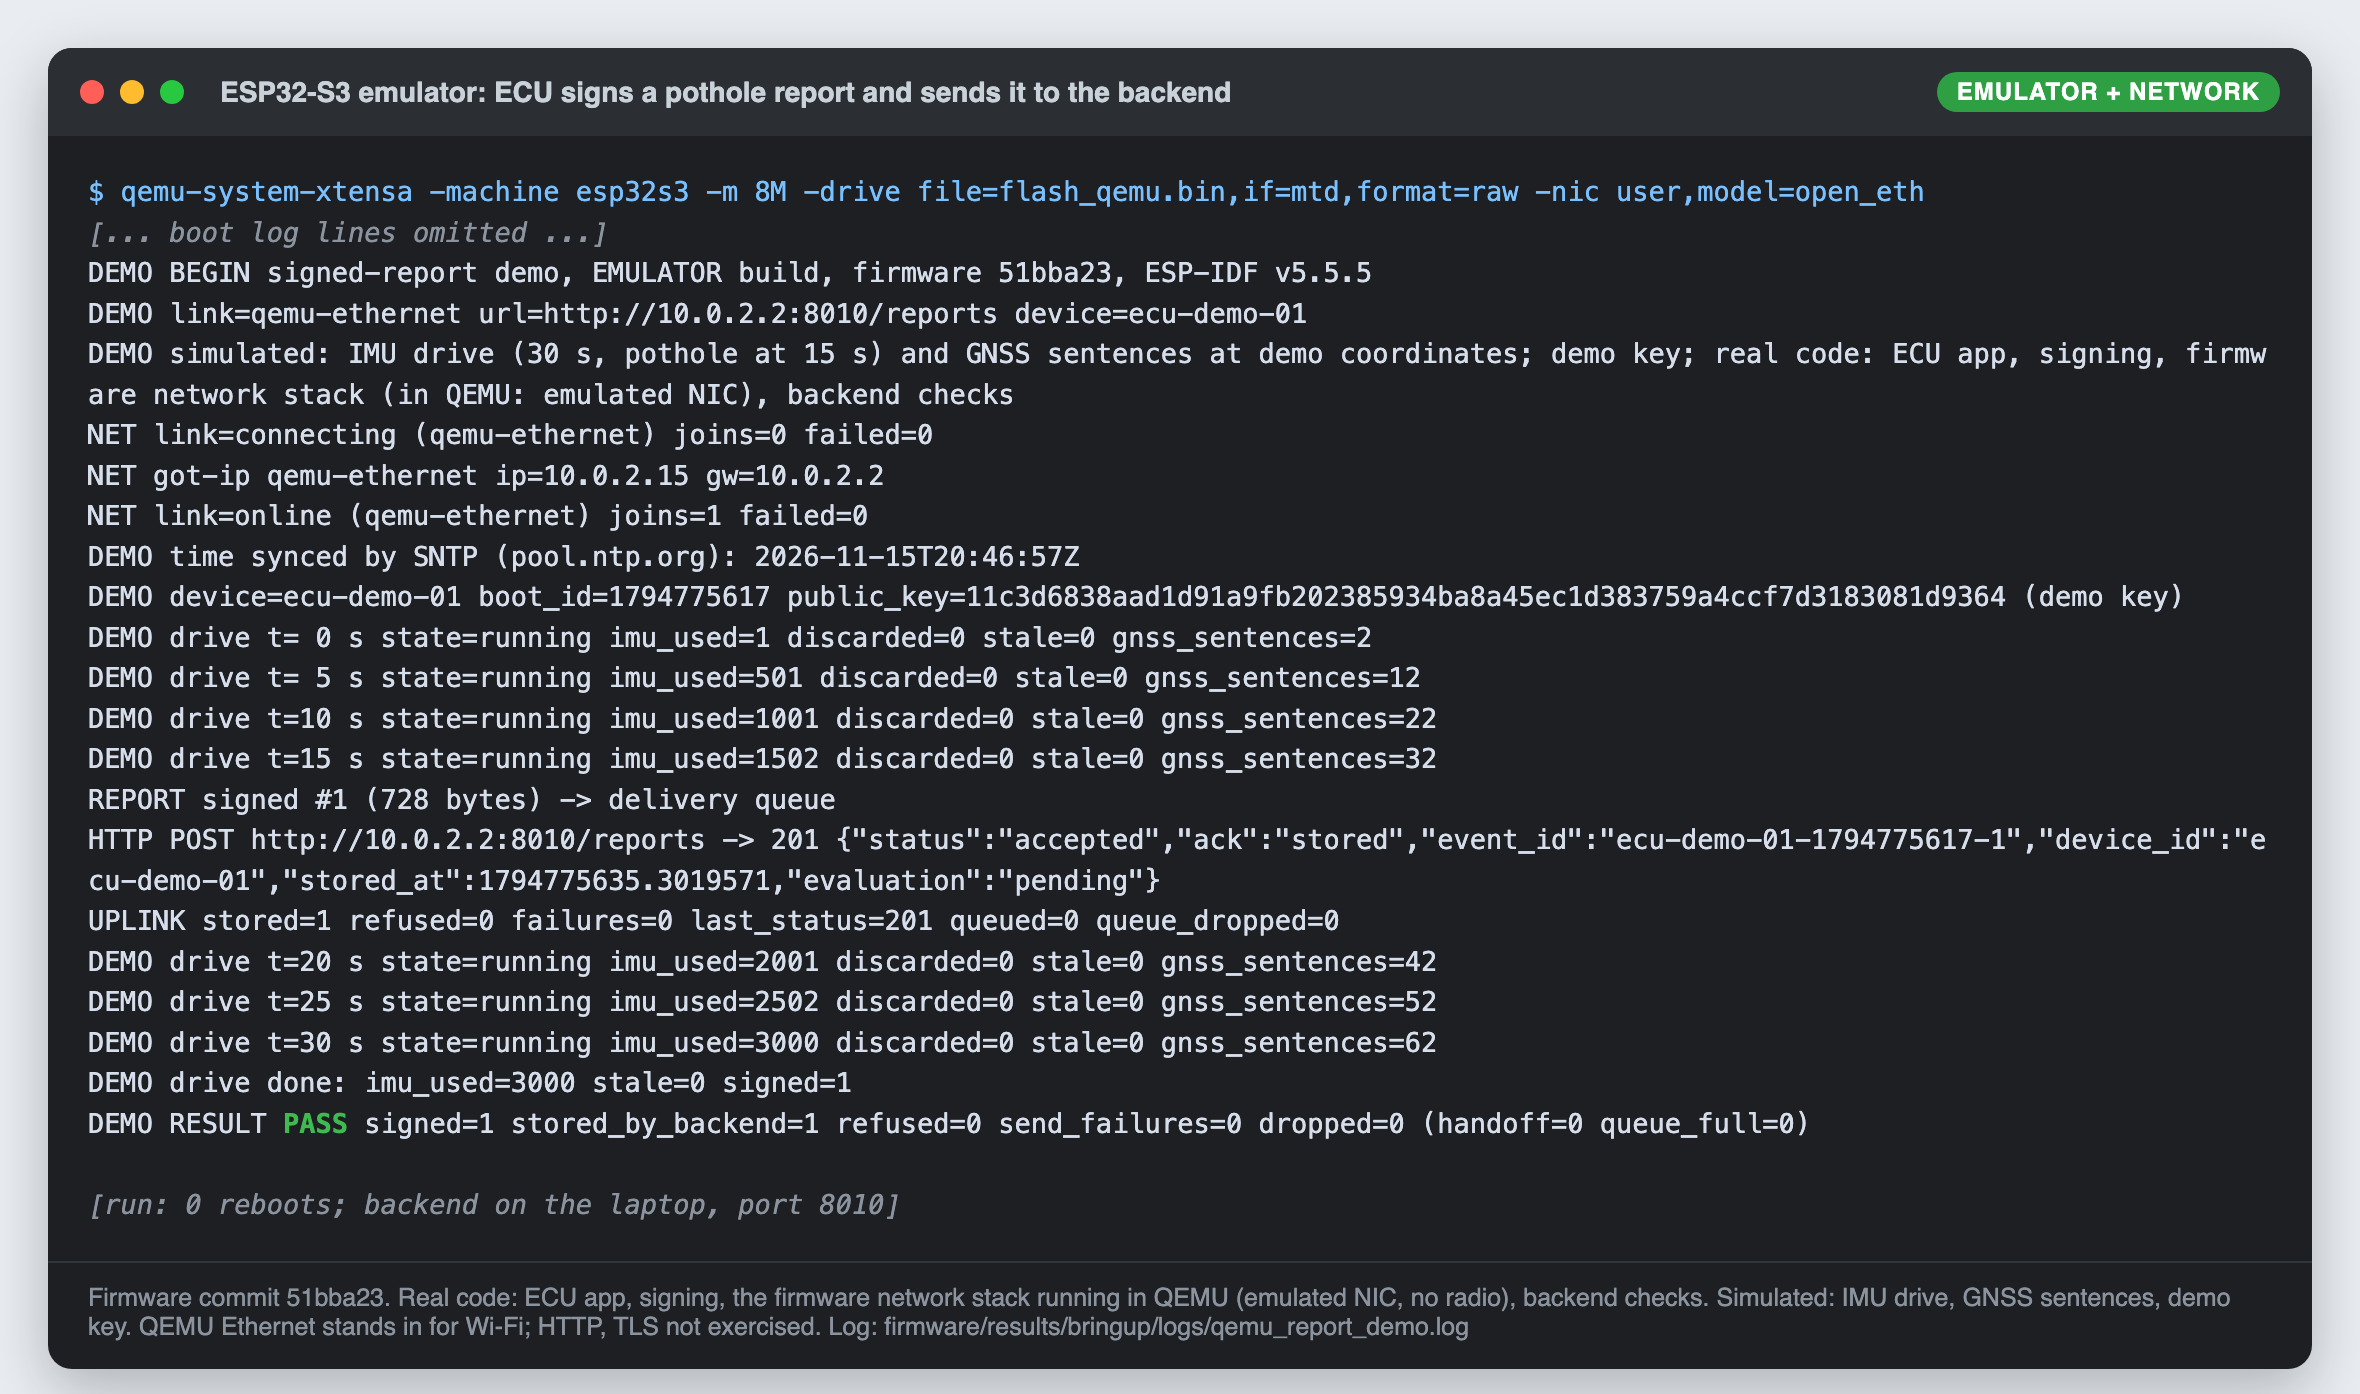
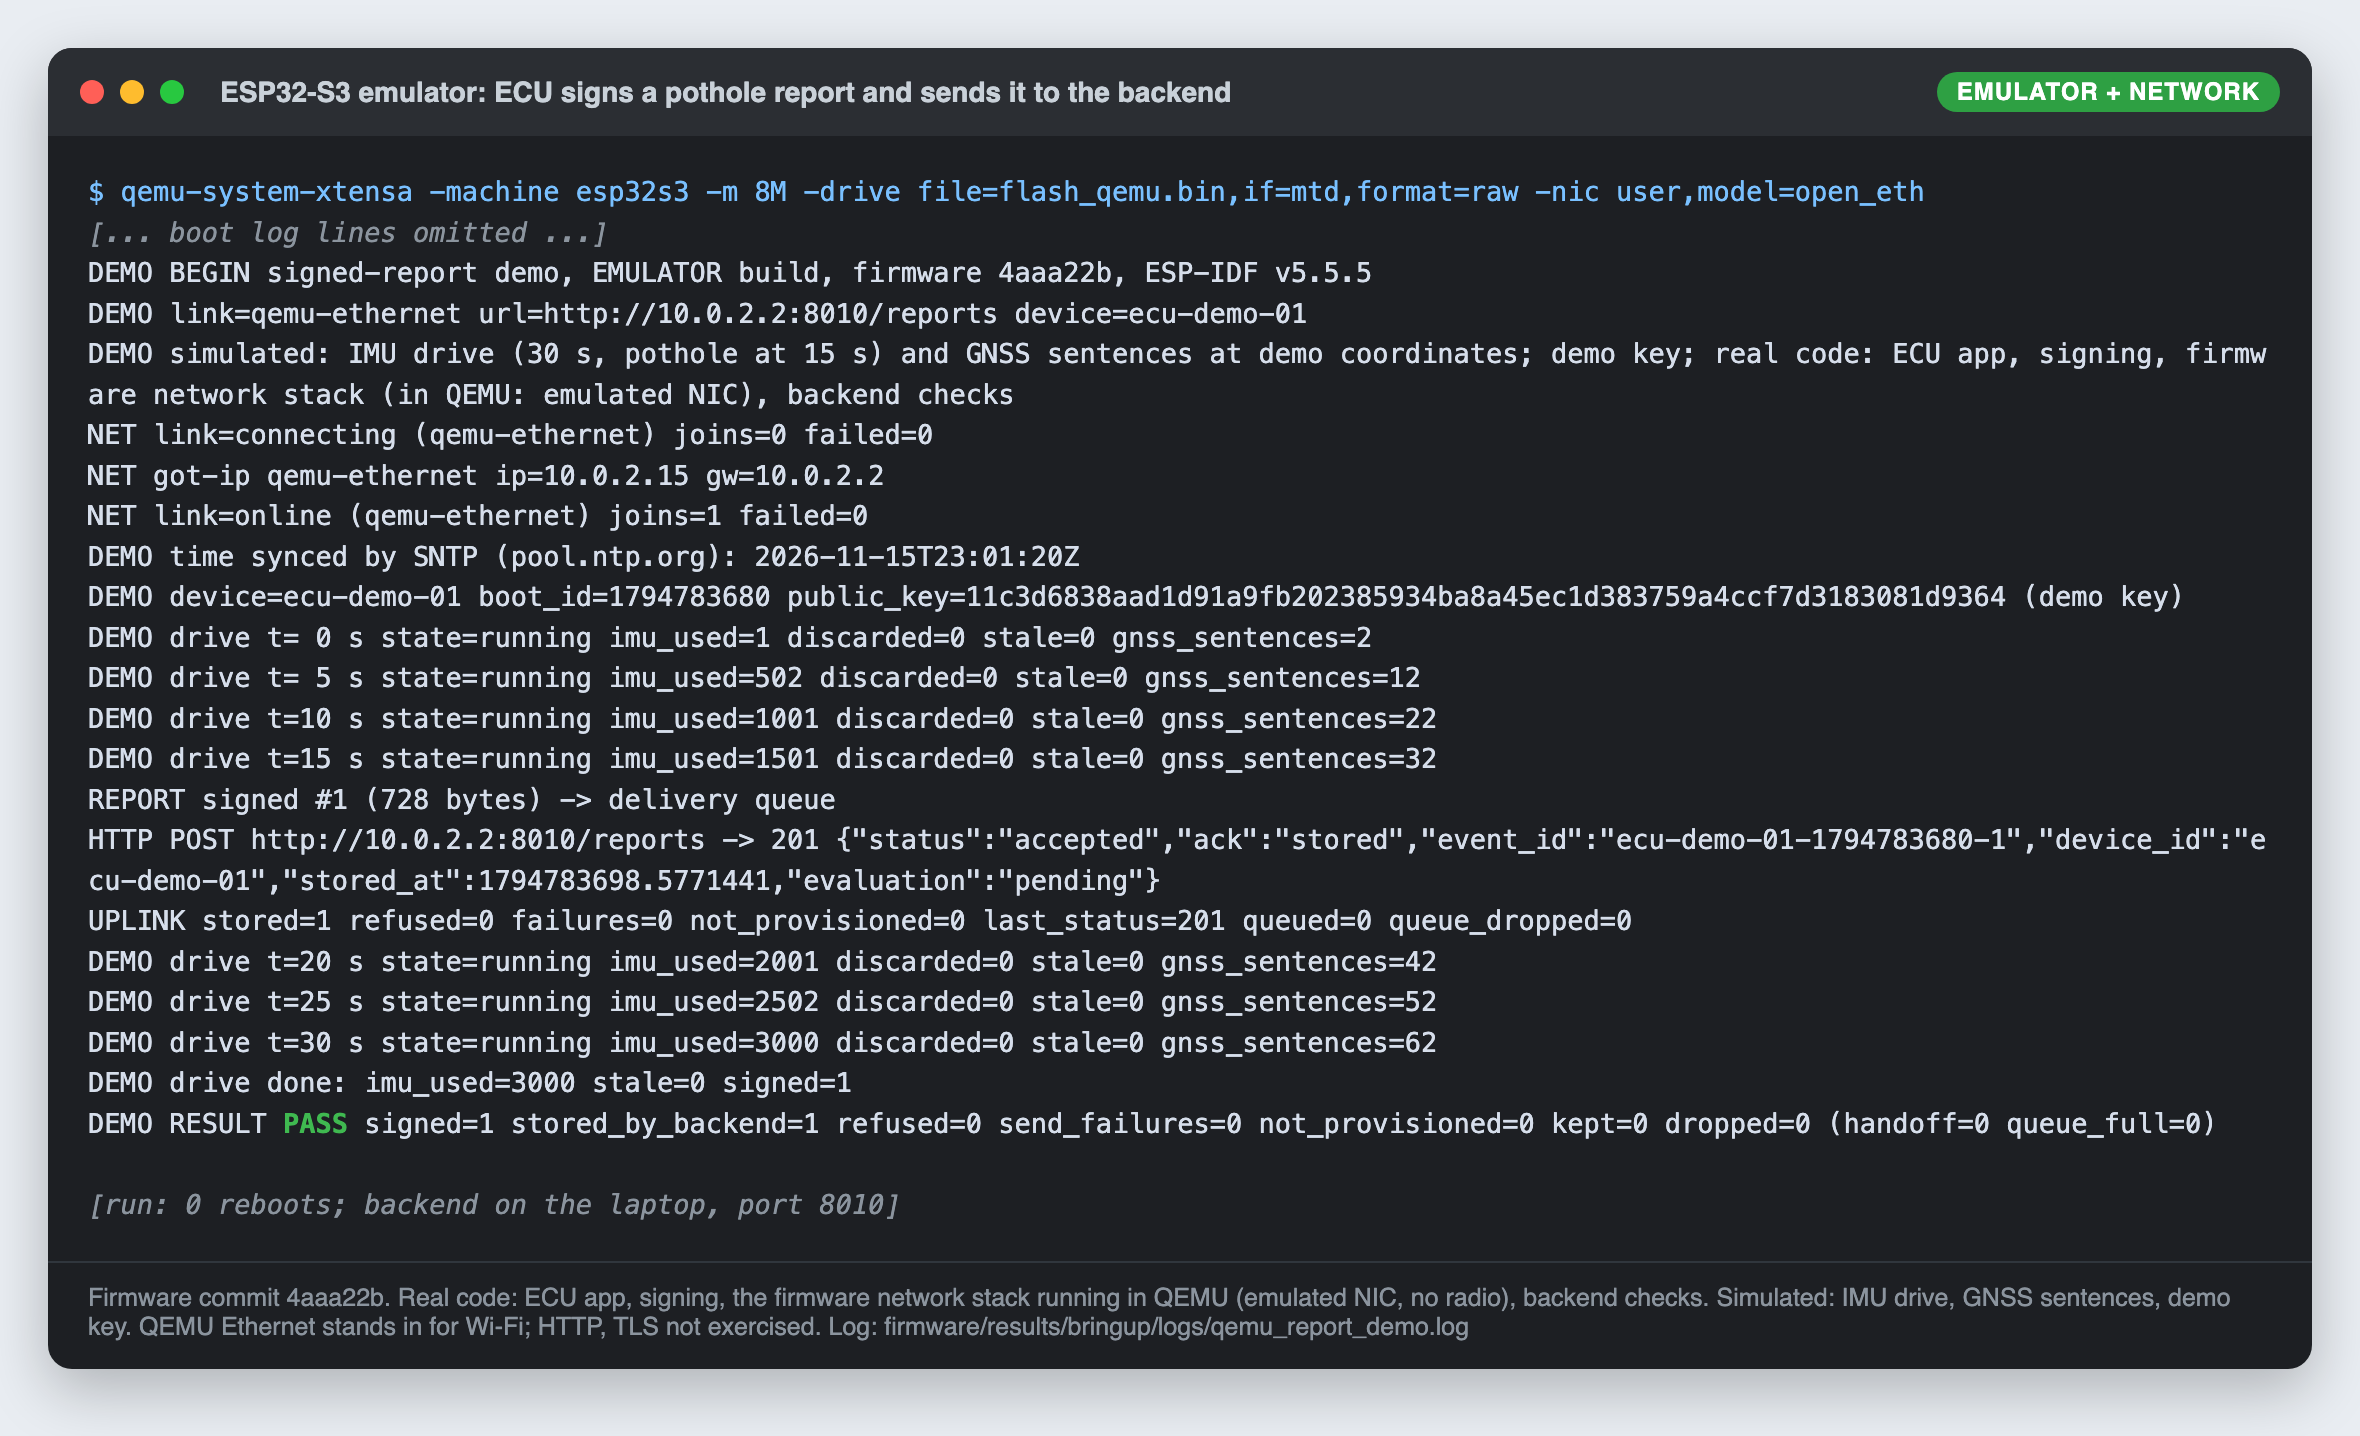
Screenshots for 4aaa22b: shots 1, 5, 6 regenerated; new shot 7 (403 unknown_device, report kept)

diff --git a/firmware/results/bringup/screenshots/make_shots.py b/firmware/results/bringup/screenshots/make_shots.py
@@ -13,7 +13,7 @@ OUT = Path(sys.argv[2])
 OUT.mkdir(parents=True, exist_ok=True)
 BRAVE = "/Applications/Brave Browser.app/Contents/MacOS/Brave Browser"
 COMMIT = "ad1ac37"       # smoke test run (shots 2, 3)
-COMMIT_NET = "51bba23"   # network report run and the latest host tests (shots 1, 5, 6)
+COMMIT_NET = "4aaa22b"   # network report runs and the latest host tests (shots 1, 5, 6, 7)
 ONLY = set(sys.argv[3:])
 
 
@@ -29,6 +29,7 @@ def colour(line):
     e = html.escape(line)
     e = re.sub(r"\b(PASS|PASSED|succeeded|Project build complete|201 Created|-&gt; 201)", r'<span class="ok">\1</span>', e)
     e = re.sub(r"\b(FAIL|FAILED|ERROR|Rebooting\.\.\.|401 Unauthorized|403 Forbidden|bad_signature)", r'<span class="bad">\1</span>', e)
+    e = re.sub(r"(\(device key not registered: report kept, will retry\)|kept=1)", r'<span class="skip">\1</span>', e)
     e = e.replace("***ERROR***", '<span class="bad">***ERROR***</span>')
     e = re.sub(r"\b(SKIP)\b", r'<span class="skip">\1</span>', e)
     if line.startswith("$ "):
@@ -76,7 +77,7 @@ if wanted(1):
   total = [l for l in nat if "test cases:" in l]
   render("1_laptop_tests", "Laptop: device logic unit tests", "HOST (laptop)", "HOST",
          ["$ pio test -e native"] + [f"[... per-test output omitted, {len(nat)} lines in the full log ...]"] + summary + total,
-         f"Commit {COMMIT_NET} - 15 Nov 2026 - full log: firmware/results/bringup/logs/native_tests.log")
+         f"Commit {COMMIT_NET} - 15 Nov 2026 (UTC) - full log: firmware/results/bringup/logs/native_tests.log")
 
 # 2. Emulator run of the ECU smoke test (EMULATOR)
 if wanted(2):
@@ -133,8 +134,21 @@ if wanted(6):
   be = [l.replace("INFO:     ", "") for l in read("backend_report_demo.log") if "/reports" in l or "/devices" in l]
   ck = read("backend_report_checks.log")
   lines = (["# backend log: run 1 (key not registered yet), registration, run 2 (uvicorn on the laptop, port 8010)"]
-           + be[:3] + ["", *ck])
+           + be[:be.index(next(l for l in be if "/devices" in l)) + 2] + ["", *ck])
   render("6_backend_checks", "Backend: the report is stored; a resend is a duplicate; a changed copy is refused",
          "HOST (laptop backend)", "HOST", lines,
          f"Commit {COMMIT_NET} - local SQLite test database, test device ecu-demo-01. "
          "Logs: firmware/results/bringup/logs/backend_report_demo.log, backend_report_checks.log")
+
+# 7. Emulator: device not registered yet -> 403 unknown_device, the report is KEPT and retried (EMULATOR + network)
+if wanted(7):
+  r = [l for l in read("qemu_report_demo_unregistered.log") if not l.startswith("#")]
+  keep = [l for l in r if l.startswith(("DEMO", "NET", "REPORT", "HTTP", "UPLINK")) and not l.startswith("DEMO drive t=")]
+  lines = (["# run 1 of 2: the backend does not know this device's public key yet",
+            "$ qemu-system-xtensa -machine esp32s3 -m 8M -drive file=flash_qemu.bin,if=mtd,format=raw -nic user,model=open_eth",
+            "[... boot log lines and drive progress lines omitted ...]"] + keep
+           + ["", "[the report stays queued: it is sent again after registration, or dropped later as 422 stale]"])
+  render("7_emulator_unknown_device_kept", "ESP32-S3 emulator: key not registered yet - 403, report kept and retried",
+         "EMULATOR + NETWORK", "NET", lines,
+         f"Firmware commit {COMMIT_NET}. Before the fix a 403 deleted the report; now 403 unknown_device keeps it "
+         "(other 403s, e.g. revoked device, still drop it). Log: firmware/results/bringup/logs/qemu_report_demo_unregistered.log")

diff --git a/firmware/results/bringup/BRINGUP_CHECKLIST.md b/firmware/results/bringup/BRINGUP_CHECKLIST.md
@@ -17,7 +17,7 @@ Every result below says where it ran: **HOST** (laptop, native tests), **EMULATO
 | `firmware/ecu` smoke test boots | EMULATOR | **chip PASS, signing PASS**, gps/imu/camera SKIP (not emulated), no reboots in a 60 s run | `logs/qemu_ecu_smoke.log` |
 | Flash, boot, GPS, IMU, camera on the board | BOARD | **NOT RUN**: board not delivered yet | - (fill in below) |
 | Report demo firmware builds for the board (Wi-Fi) and the emulator | cross-compile | **Built, 0 warnings**, 37% of app partition free (board) | `logs/ecu_report_build_board.log`, `logs/ecu_report_build_qemu.log` |
-| ECU app on the chip signs a pothole report and sends it to `POST /reports` | EMULATOR + laptop backend | **PASS**: network up, SNTP time, report signed, backend answered **201 accepted**, no reboots. QEMU Ethernet stands in for Wi-Fi; HTTP only (TLS not exercised); IMU drive and GNSS sentences simulated; demo key | `logs/qemu_report_demo.log`, `logs/backend_report_demo.log`, screenshot 5. The run before registering the key got **403 unknown_device**: the ECU kept the report and retried it with back-off (`not_provisioned=3 kept=1`, nothing deleted): `logs/qemu_report_demo_unregistered.log` |
+| ECU app on the chip signs a pothole report and sends it to `POST /reports` | EMULATOR + laptop backend | **PASS**: network up, SNTP time, report signed, backend answered **201 accepted**, no reboots. QEMU Ethernet stands in for Wi-Fi; HTTP only (TLS not exercised); IMU drive and GNSS sentences simulated; demo key | `logs/qemu_report_demo.log`, `logs/backend_report_demo.log`, screenshot 5. The run before registering the key got **403 unknown_device**: the ECU kept the report and retried it with back-off (`not_provisioned=3 kept=1`, nothing deleted): `logs/qemu_report_demo_unregistered.log`, screenshot 7 |
 | Backend checks on that report | HOST | Stored as a pothole, severity high; the same line again = duplicate (safe retry); one field changed = **401 bad signature** | `logs/backend_report_checks.log` (made by `backend_report_checks.py`), screenshot 6 |
 | Wi-Fi join, signed report to the backend | BOARD | **NOT RUN**: board not delivered yet (same firmware, `sdkconfig.report` without the QEMU overlay) | - |
 

diff --git a/firmware/results/bringup/screenshots/README.md b/firmware/results/bringup/screenshots/README.md
@@ -5,12 +5,13 @@ lines in grey italics are notes (omitted lines, run length), not device output. 
 
 | Image | Where | What it shows |
 |---|---|---|
-| `1_laptop_tests.png` | HOST (laptop) | 94/94 unit tests of the device logic |
+| `1_laptop_tests.png` | HOST (laptop) | 98/98 unit tests of the device logic |
 | `2_emulator_smoke_test.png` | EMULATOR (QEMU) | The ECU firmware boots; chip and signing PASS; sensors SKIP (not emulated) |
 | `3_board_firmware_build.png` | BUILD | The ECU firmware builds for the XIAO ESP32-S3 with 0 warnings |
 | `4_bug_found_and_fixed.png` | EMULATOR (QEMU) | Stack overflow + reboot loop in the signing demo, and the run with the fix |
 | `5_emulator_report_accepted.png` | EMULATOR + NETWORK | The ECU firmware signs a pothole report and the laptop backend stores it (201) |
-| `6_backend_checks.png` | HOST (laptop backend) | Unregistered key refused (403), then the stored report; the same line again is a duplicate; a changed copy is refused (bad signature). Checks made with `../backend_report_checks.py` |
+| `6_backend_checks.png` | HOST (laptop backend) | Unregistered key answered 403 (the ECU retried), registration, then the stored report; the same line again is a duplicate; a changed copy is refused (bad signature). Checks made with `../backend_report_checks.py` |
+| `7_emulator_unknown_device_kept.png` | EMULATOR + NETWORK | Before the key is registered: 403 unknown_device, the ECU keeps the report and retries (nothing deleted) |
 
 Regenerate: `python3 make_shots.py "$PWD/../logs" "$PWD" [numbers]` (needs a Chromium browser; path set in the
-script). Shots 2-4 come from the smoke-test run at `ad1ac37`; shots 1, 5 and 6 from `51bba23`.
+script). Shots 2-4 come from the smoke-test run at `ad1ac37`; shots 1, 5, 6 and 7 from `4aaa22b`.
